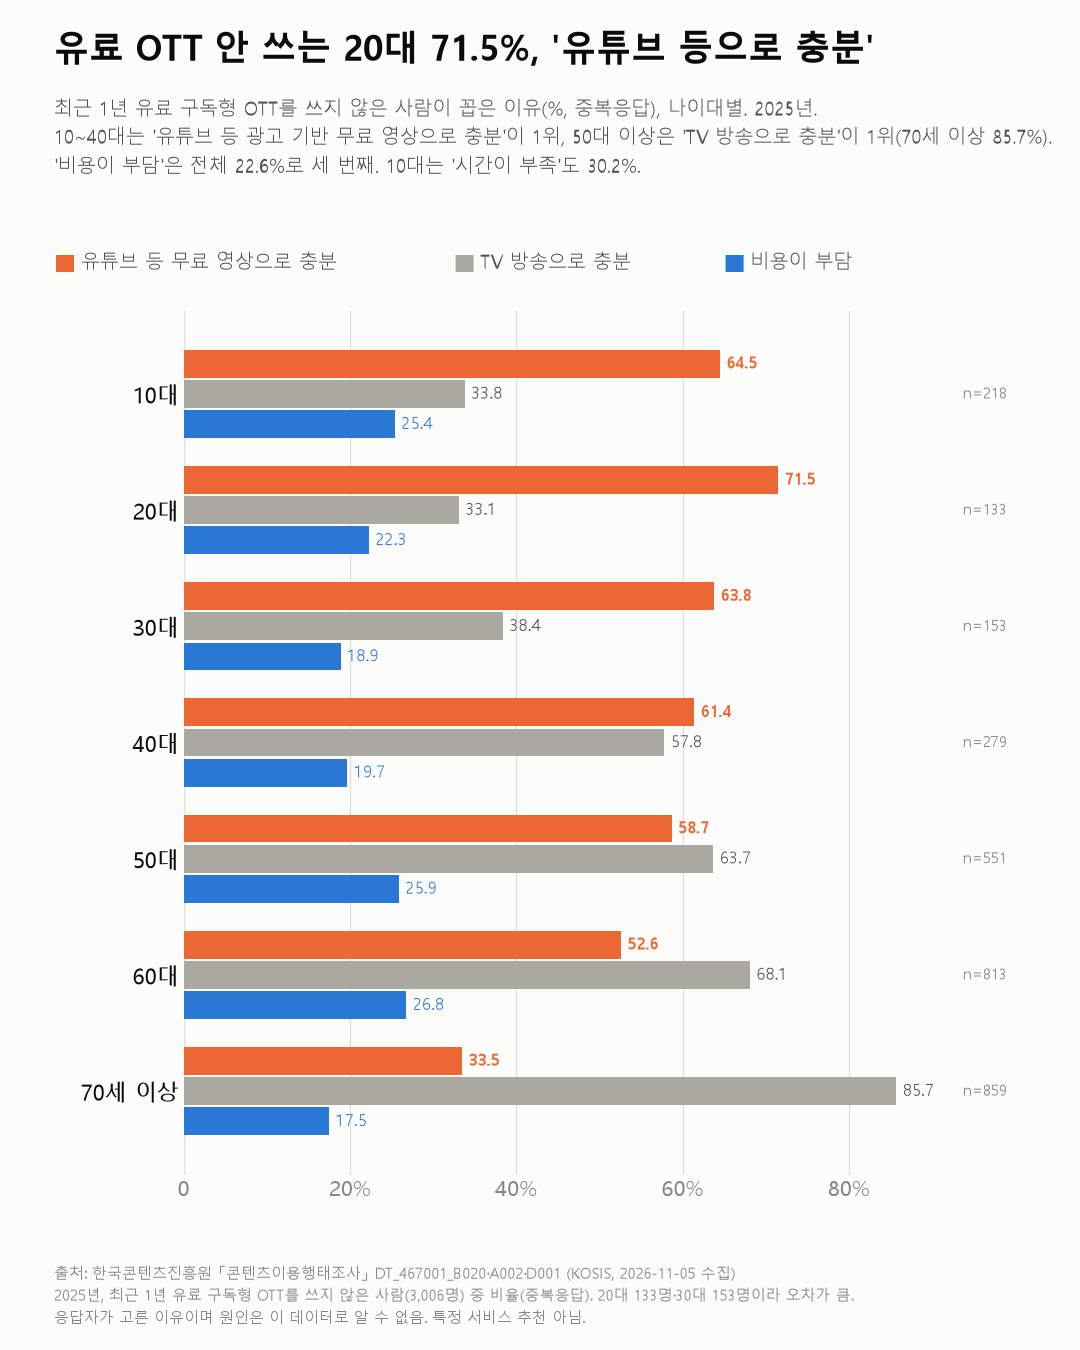
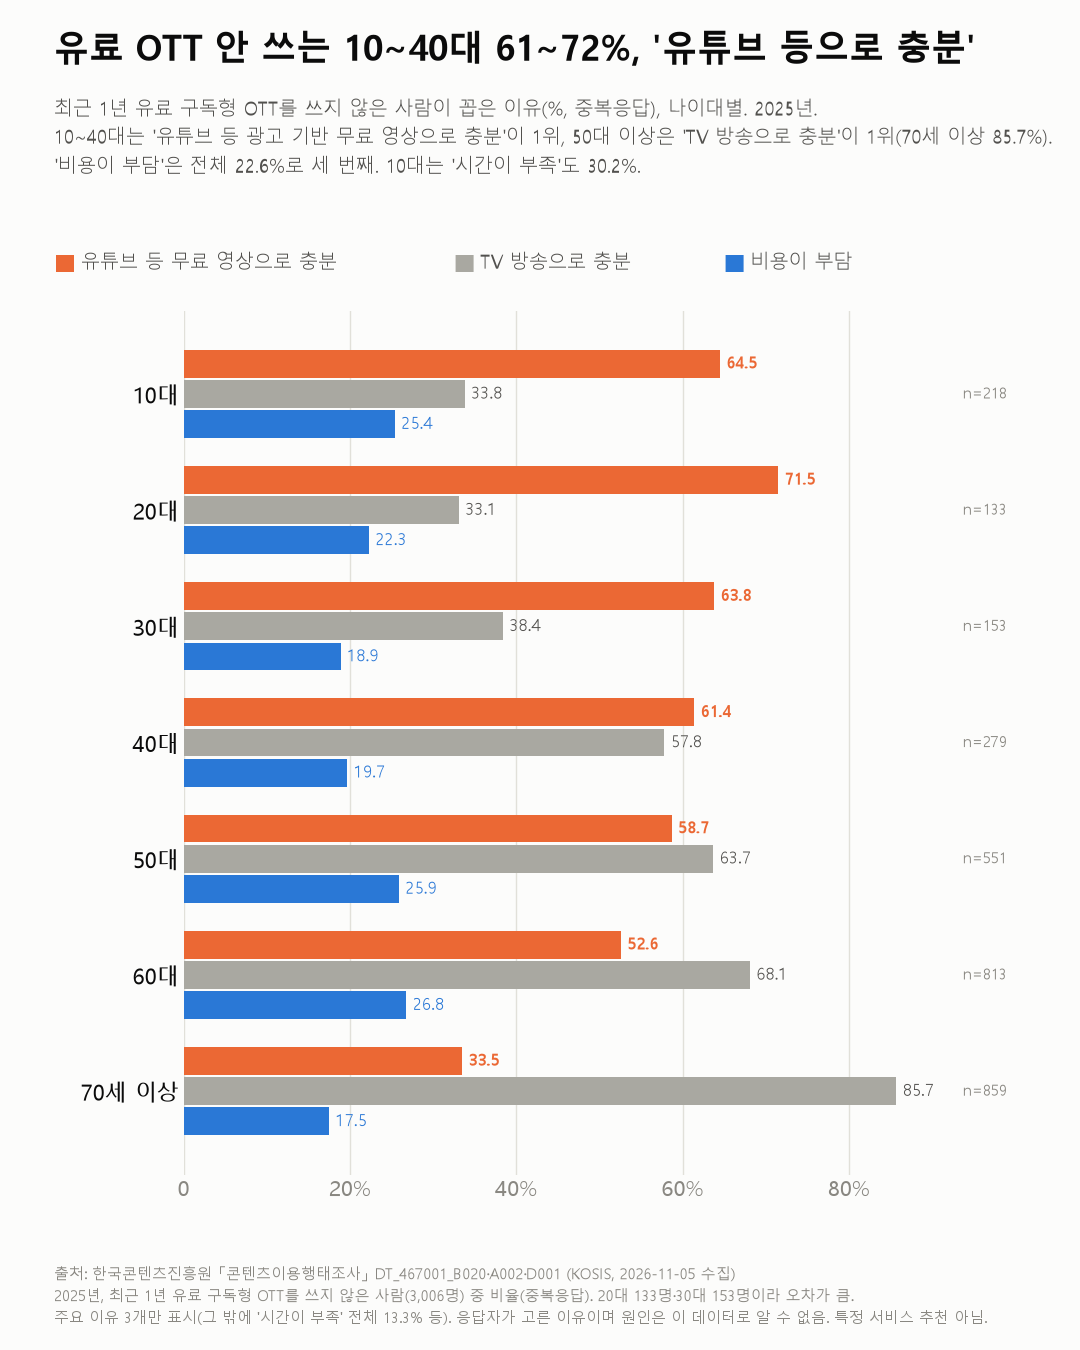
사이트 갱신

diff --git a/2026-11_ott-spend/index.html b/2026-11_ott-spend/index.html
@@ -78,7 +78,7 @@
 <p><strong>1. OTT 이용자는 한 달 평균 7,017원을 쓴다. 30대 12,420원, 20대 11,300원이 가장 많고 60대 2,360원, 70세 이상 1,247원.</strong> 월 2만 원 이상 쓰는 비율은 30대 27.0%, 20대 23.3%. 반대로 전체의 56.3%는 5천 원 미만(0원 포함)이다.</p>
 <p><strong>2. 유료 구독형 OTT 이용률은 20대 83.6%, 30대 83.0%, 60대 24.0%, 70세 이상 5.7%.</strong> 10대는 유료 이용률이 65.4%인데 스스로 쓰는 돈은 월 3,948원으로, 가족 계정을 같이 쓰는 경우가 섞여 있을 수 있다(이 표로 확인할 수 없음).</p>
 <p><strong>3. '유료 OTT 1개에 적당한 한 달 값'은 평균 6,001원, 30대 8,049원, 20대 7,803원.</strong> 1만 2,500원 이상이 적당하다는 사람은 10.6%다.</p>
-<p><strong>4. 유료 OTT를 안 쓰는 사람의 이유 1위는 10~40대 '유튜브 등 광고 기반 무료 영상으로 충분'(20대 71.5%), 50대 이상 'TV 방송으로 충분'(70세 이상 85.7%).</strong> '비용이 부담'은 전체 22.6%로 세 번째다.</p>
+<p><strong>4. 유료 OTT를 안 쓰는 사람의 이유 1위는 10~40대 '유튜브 등 광고 기반 무료 영상으로 충분'(61~72%), 50대 이상 'TV 방송으로 충분'(70세 이상 85.7%).</strong> '비용이 부담'은 전체 22.6%로 세 번째다. 10~40대 미이용자는 나이대마다 133~279명이라 나이대끼리 순위는 매기지 않았다.</p>
 <p><a class="chart-link" href="chart_ott_no_reason.png" title="원본 크기로 보기"><img alt="안 쓰는 이유" src="chart_ott_no_reason.png" /></a></p>
 <p><strong>5. 광고를 보는 대신 싼 광고형 요금제를 쓰는 사람은 34.8%다.</strong></p>
 </section><section class="sec sec-limits"><h2>한계</h2><p class="sec-note">이 데이터로 말할 수 없는 것</p>
